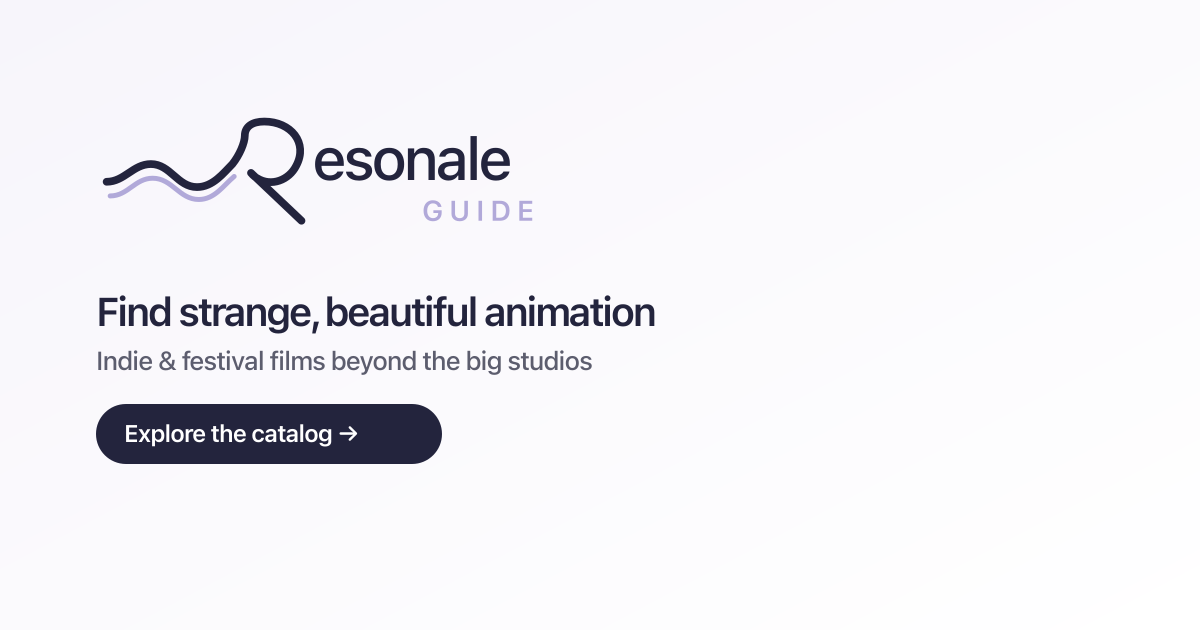
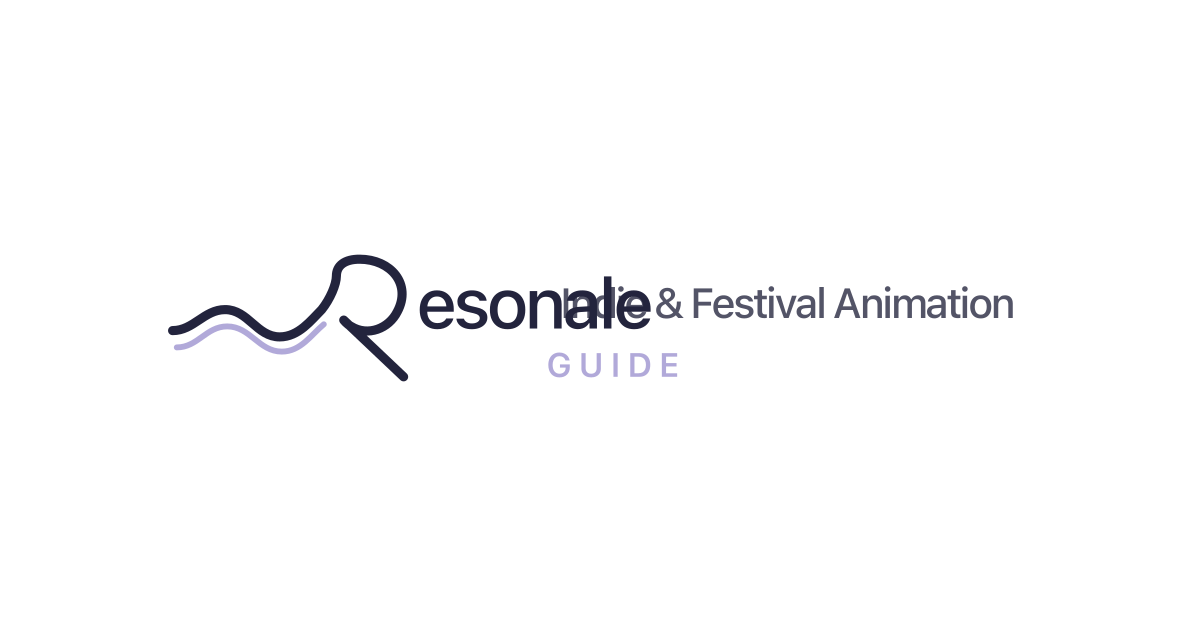
Show Indie & Festival Animation beside the Resonale lockup.
Keeps the brand mark separate, sizes the site name to the lockup, and shortens it on tighter breakpoints.

Changed region(s): [[0.0617, 0.3921, 0.8633, 0.6032], [0.0925, 0.181, 0.4625, 0.3619], [0.0617, 0.6333, 0.37, 0.754]]

diff --git a/components/ResonaleBrand.tsx b/components/ResonaleBrand.tsx
@@ -10,6 +10,11 @@ const NAVY = RESONALE_NAVY;
 const LAVENDER = RESONALE_LAVENDER;
 const GUIDE_LABEL = "GUIDE";
 
+/** Site name beside the lockup — shortens on smaller breakpoints. */
+export const RESONALE_BRAND_TAGLINE = "Indie & Festival Animation";
+const BRAND_TAGLINE_MEDIUM = "Festival Animation";
+const BRAND_TAGLINE_SHORT = "Animation";
+
 /** GUIDE left edge at the middle of “n” in “nale”. */
 const ESONALE_START_X = 122;
 const GUIDE_X = 184;
@@ -102,38 +107,67 @@ function ResonaleLogoMark({ className }: { className?: string }) {
 type ResonaleBrandProps = {
   href?: string;
   onClick?: () => void;
+  /** Show the site name beside the lockup (default on). */
+  showTagline?: boolean;
 };
 
-export default function ResonaleBrand({ href = "/", onClick }: ResonaleBrandProps) {
+export default function ResonaleBrand({
+  href = "/",
+  onClick,
+  showTagline = true,
+}: ResonaleBrandProps) {
   return (
-    <Link
-      href={href}
-      onClick={(event) => {
-        if (!onClick) {
-          return;
-        }
+    <div className="flex min-w-0 items-center gap-1 sm:gap-1.5">
+      <Link
+        href={href}
+        onClick={(event) => {
+          if (!onClick) {
+            return;
+          }
 
-        if (event.metaKey || event.ctrlKey || event.shiftKey || event.altKey) {
-          return;
-        }
+          if (event.metaKey || event.ctrlKey || event.shiftKey || event.altKey) {
+            return;
+          }
 
-        if (event.button !== 0) {
-          return;
-        }
+          if (event.button !== 0) {
+            return;
+          }
 
-        event.preventDefault();
-        onClick();
-      }}
-      className="inline-flex shrink-0 items-center overflow-visible rounded-sm focus-visible:outline focus-visible:outline-2 focus-visible:outline-offset-2 focus-visible:outline-slate-900"
-      aria-label="Resonale home"
-    >
-      {/*
-        Layout box matches the Resonale wordmark band so sibling nav
-        centers against “esonale”, while GUIDE hangs below.
-      */}
-      <span className="relative block h-[21px] w-[8.5rem] overflow-visible sm:h-6 sm:w-[10.6875rem]">
-        <ResonaleLogoMark className="pointer-events-none absolute top-[-0.3rem] left-0 h-[30px] w-auto max-w-none overflow-visible sm:top-[-0.4125rem] sm:h-[39px]" />
-      </span>
-    </Link>
+          event.preventDefault();
+          onClick();
+        }}
+        className="inline-flex shrink-0 items-center overflow-visible rounded-sm focus-visible:outline focus-visible:outline-2 focus-visible:outline-offset-2 focus-visible:outline-slate-900"
+        aria-label="Resonale home"
+      >
+        {/* Full lockup height (wordmark + GUIDE) so the title can center against it. */}
+        {/* Width hugs ink (through GUIDE), not empty SVG trailing space. */}
+        <span className="relative block h-[30px] w-[6.75rem] overflow-visible sm:h-[39px] sm:w-[8.5rem]">
+          <ResonaleLogoMark className="pointer-events-none absolute top-0 left-0 h-full w-auto max-w-none overflow-visible" />
+        </span>
+      </Link>
+
+      {showTagline ? (
+        /*
+          Separate from the lockup. One large line, optically as tall as
+          Resonale + GUIDE. Shortens when the header gets tight:
+          full → Festival Animation → Animation.
+        */
+        <p
+          aria-hidden="true"
+          className="m-0 hidden shrink-0 font-sans text-[20px] font-medium leading-none tracking-tight antialiased [font-synthesis:none] sm:block sm:text-[23px] md:text-[26px]"
+          style={{ color: NAVY }}
+        >
+          <span className="hidden whitespace-nowrap lg:inline">
+            {RESONALE_BRAND_TAGLINE}
+          </span>
+          <span className="hidden whitespace-nowrap md:inline lg:hidden">
+            {BRAND_TAGLINE_MEDIUM}
+          </span>
+          <span className="inline whitespace-nowrap md:hidden">
+            {BRAND_TAGLINE_SHORT}
+          </span>
+        </p>
+      ) : null}
+    </div>
   );
 }
